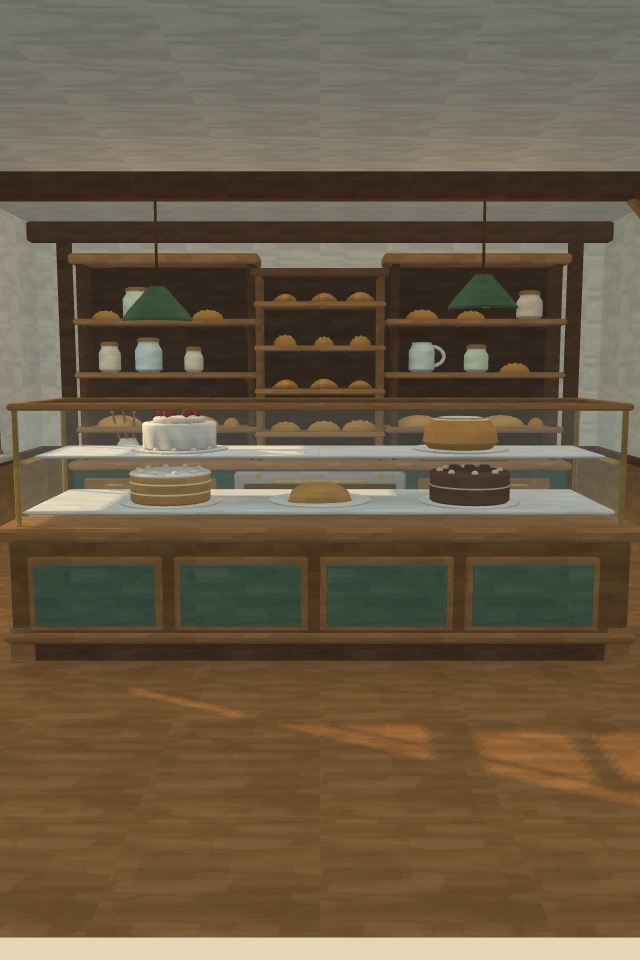
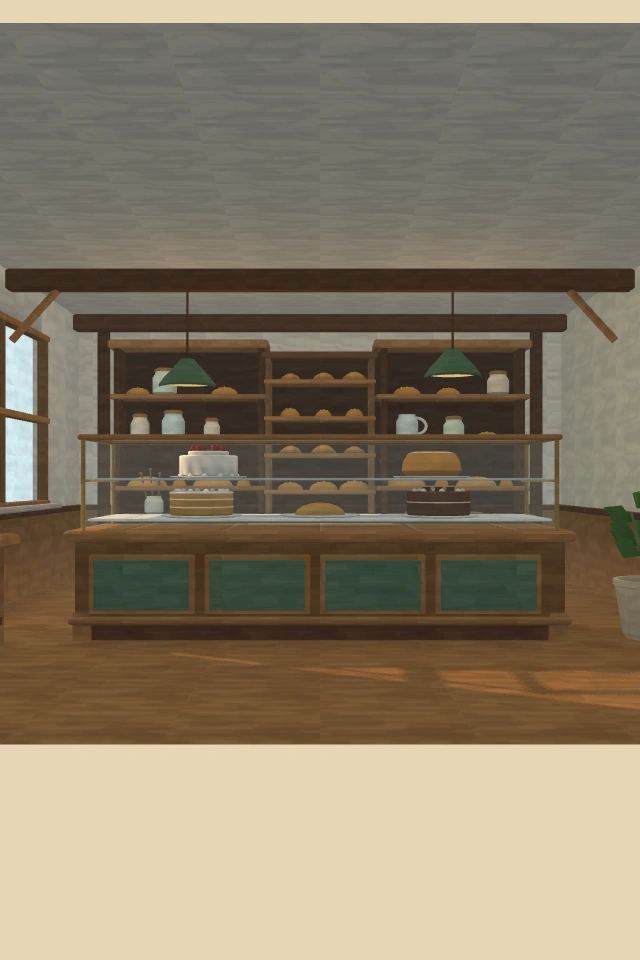
Level and pull back the bakery entrance camera
Replace the downward default with a level eye-height view, move the camera back and compensate bounded look travel. Regenerate matching fallback posters and refresh the entrance showcase while preserving scene geometry, lighting, facade and product media.

Copilot-Session: 065222f9-e445-4b98-a549-e6948580c174

diff --git a/site/index.html b/site/index.html
@@ -22,32 +22,32 @@
   <link rel="icon" href="assets/favicon.svg" type="image/svg+xml" sizes="any">
   <link rel="apple-touch-icon" href="assets/apple-touch-icon.png" sizes="180x180">
   <link rel="preload" href="assets/fonts/courgette-regular.ttf" as="font" type="font/ttf" crossorigin>
-  <link rel="stylesheet" href="styles.css?v=26dede947f25">
-  <link rel="stylesheet" href="entrance-shop.css?v=26dede947f25">
-  <link rel="stylesheet" href="cozy-bakery.css?v=26dede947f25">
-  <link rel="stylesheet" href="readability.css?v=26dede947f25">
-  <link rel="modulepreload" href="entrance.mjs?v=26dede947f25">
-  <link rel="modulepreload" href="bell.mjs?v=26dede947f25">
-  <link rel="modulepreload" href="notebooks.mjs?v=26dede947f25">
-  <script type="module" src="main.mjs?v=26dede947f25"></script>
+  <link rel="stylesheet" href="styles.css?v=0fe20a62bf44">
+  <link rel="stylesheet" href="entrance-shop.css?v=0fe20a62bf44">
+  <link rel="stylesheet" href="cozy-bakery.css?v=0fe20a62bf44">
+  <link rel="stylesheet" href="readability.css?v=0fe20a62bf44">
+  <link rel="modulepreload" href="entrance.mjs?v=0fe20a62bf44">
+  <link rel="modulepreload" href="bell.mjs?v=0fe20a62bf44">
+  <link rel="modulepreload" href="notebooks.mjs?v=0fe20a62bf44">
+  <script type="module" src="main.mjs?v=0fe20a62bf44"></script>
 </head>
 <body>
   <a class="skip-link" href="#main">Skip to cakes and ordering</a>
   <div id="bakery-entrance" class="bakery-entrance" data-state="pending" data-audio="waiting">
     <div class="entrance-art" aria-hidden="true">
       <div class="entrance-backdrop"></div>
-      <div class="entrance-shop" style="--facade-plaster:url('assets/bakery-facade-plaster.webp?v=26dede947f25');--sign-wood:url('assets/bakery-sign-wood.webp?v=26dede947f25')">
+      <div class="entrance-shop" style="--facade-plaster:url('assets/bakery-facade-plaster.webp?v=0fe20a62bf44');--sign-wood:url('assets/bakery-sign-wood.webp?v=0fe20a62bf44')">
         <div class="entrance-masonry"></div>
         <picture class="entrance-upper-storey">
-          <source media="(max-width: 600px)" srcset="assets/bakery-facade-upper-mobile.svg?v=26dede947f25">
-          <img src="assets/bakery-facade-upper.svg?v=26dede947f25" width="1200" height="360" alt="" decoding="async">
+          <source media="(max-width: 600px)" srcset="assets/bakery-facade-upper-mobile.svg?v=0fe20a62bf44">
+          <img src="assets/bakery-facade-upper.svg?v=0fe20a62bf44" width="1200" height="360" alt="" decoding="async">
         </picture>
         <div class="entrance-sign" data-brand="Whisk &amp; Crumbs">
           <img class="entrance-sign-mark" src="assets/whisk-and-crumbs-mark.svg" width="128" height="128" alt="">
           <span class="entrance-sign-copy"><span class="entrance-wordmark">Whisk &amp; Crumbs</span><span class="entrance-descriptor">Home-baked vegetarian cakes</span></span>
         </div>
         <span class="entrance-cornice"></span>
-        <div class="entrance-awning"><img src="assets/bakery-awning.svg?v=26dede947f25" width="1200" height="300" alt="" decoding="async"><span class="awning-supports" style="background-image:url('assets/bakery-awning-supports.svg?v=26dede947f25')"></span></div>
+        <div class="entrance-awning"><img src="assets/bakery-awning.svg?v=0fe20a62bf44" width="1200" height="300" alt="" decoding="async"><span class="awning-supports" style="background-image:url('assets/bakery-awning-supports.svg?v=0fe20a62bf44')"></span></div>
         <span class="entrance-pier entrance-pier-left"></span><span class="entrance-pier entrance-pier-right"></span>
         <div class="entrance-doorway">
           <div class="entrance-bell-mount"></div>
@@ -61,9 +61,9 @@
           <div class="entrance-doorframe">
             <div class="entrance-room">
               <picture class="entrance-room-poster">
-                <source media="(max-aspect-ratio: 4/5)" srcset="assets/bakery-interior-portrait.webp?v=26dede947f25">
-                <source media="(max-height: 600px)" srcset="assets/bakery-interior-short.webp?v=26dede947f25">
-                <img src="assets/bakery-interior-wide.webp?v=26dede947f25" width="1600" height="1000" alt="" decoding="async">
+                <source media="(max-aspect-ratio: 4/5)" srcset="assets/bakery-interior-portrait.webp?v=0fe20a62bf44">
+                <source media="(max-height: 600px)" srcset="assets/bakery-interior-short.webp?v=0fe20a62bf44">
+                <img src="assets/bakery-interior-wide.webp?v=0fe20a62bf44" width="1600" height="1000" alt="" decoding="async">
               </picture>
             </div>
             <div class="entrance-fixed-bay entrance-fixed-bay-left"><span class="entrance-display-glass"></span><span class="entrance-bay-panel"></span></div>
@@ -93,7 +93,7 @@
         </div>
         <span class="entrance-threshold"></span>
         <span class="entrance-step"></span>
-        <img class="entrance-pavement" src="assets/bakery-facade-ground.svg?v=26dede947f25" width="1200" height="140" alt="" decoding="async">
+        <img class="entrance-pavement" src="assets/bakery-facade-ground.svg?v=0fe20a62bf44" width="1200" height="140" alt="" decoding="async">
       </div>
     </div>
     <a id="entrance-enter" class="entrance-enter" href="#home" aria-label="Open the bakery doors and enter">
@@ -107,7 +107,7 @@
   </div>
   <noscript><style>.bakery-entrance { display: none !important; }</style></noscript>
   <header class="site-header">
-    <div class="shop-sign" style="--sign-wood:url('assets/bakery-sign-wood.webp?v=26dede947f25')">
+    <div class="shop-sign" style="--sign-wood:url('assets/bakery-sign-wood.webp?v=0fe20a62bf44')">
       <div class="container header-inner">
         <a class="brand" href="#home" aria-label="Whisk &amp; Crumbs - home">
           <img src="assets/whisk-and-crumbs-mark.svg" width="128" height="128" alt="">
@@ -121,7 +121,7 @@
       </nav>
     </div>
   </header>
-  <div class="site-awning" aria-hidden="true"><img src="assets/bakery-awning.svg?v=26dede947f25" width="1200" height="300" alt="" decoding="async"><span class="awning-supports" style="background-image:url('assets/bakery-awning-supports.svg?v=26dede947f25')"></span></div>
+  <div class="site-awning" aria-hidden="true"><img src="assets/bakery-awning.svg?v=0fe20a62bf44" width="1200" height="300" alt="" decoding="async"><span class="awning-supports" style="background-image:url('assets/bakery-awning-supports.svg?v=0fe20a62bf44')"></span></div>
 
   <main id="main" tabindex="-1">
     <section class="hero-section" id="home" aria-labelledby="hero-title">
@@ -724,7 +724,7 @@
         </div>
       </div>
     </section>
-    <div class="bakery-shelf" aria-hidden="true"><img src="assets/bakery-shelf.svg?v=26dede947f25" width="960" height="120" alt="" loading="lazy" decoding="async"></div>
+    <div class="bakery-shelf" aria-hidden="true"><img src="assets/bakery-shelf.svg?v=0fe20a62bf44" width="960" height="120" alt="" loading="lazy" decoding="async"></div>
   </main>
 
   <footer class="container site-footer">

diff --git a/README.md b/README.md
@@ -1,6 +1,6 @@
 [![Our little corner is now online: refreshed editorial artwork with larger supporting copy and genuine current desktop and mobile views of the wooden sign, navigation and supported rose-striped canopy.](site/assets/showcase/01-welcome.jpg?v=0737801810cc)](https://zanark.github.io/WhiskAndCrumbs/)
 
-[![Come on in: the current illustrated bakery entrance shown on desktop and mobile, with its complete building, supported rose canopy, wooden fascia and optional Phone tilt control.](site/assets/showcase/02-bakery-entrance.jpg?v=ae1f557079e9)](https://zanark.github.io/WhiskAndCrumbs/)
+[![Come on in: the illustrated bakery entrance on desktop and mobile, with a level, pulled-back interior view, complete building, supported rose canopy and optional Phone tilt control.](site/assets/showcase/02-bakery-entrance.jpg?v=23d48d586cfb)](https://zanark.github.io/WhiskAndCrumbs/)
 
 [![A little care in every layer: current desktop story and mobile recipe-note views with larger readable supporting copy, cream editorial typography and slim device framing.](site/assets/showcase/03-our-story.jpg?v=dbf9a8d31a6a)](https://zanark.github.io/WhiskAndCrumbs/#story)
 

diff --git a/ABOUT.md b/ABOUT.md
@@ -23,7 +23,8 @@ bakery with layered painted materials, richly stocked walnut shelves and greener
 Golden sunlight enters through the side window, with window-frame shadows,
 soft contact shading and warm reflected light baked from the room's geometry.
 The display cabinet reaches the floor; its cakes, shelves and shadows share one
-perspective. Mouse movement gives a much stronger look around the room while the
+perspective. The default viewpoint now looks straight ahead from eye level and
+sits farther back, rather than looking down over the counter. Mouse movement gives a strong look around the room while the
 outer storefront stays steady. Phones start with a centered view.
 On supported phones, tap **Phone tilt**, allow motion access if asked, and hold the
 phone comfortably while it calibrates. Gentle tilting then controls the same
